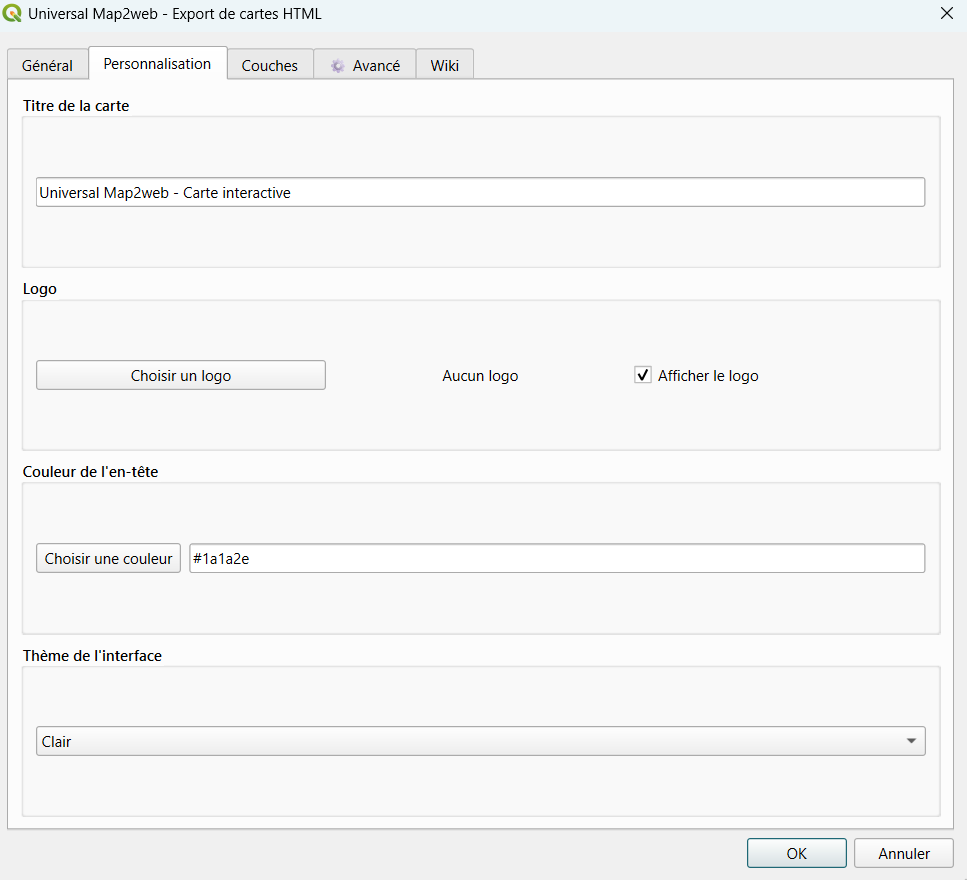
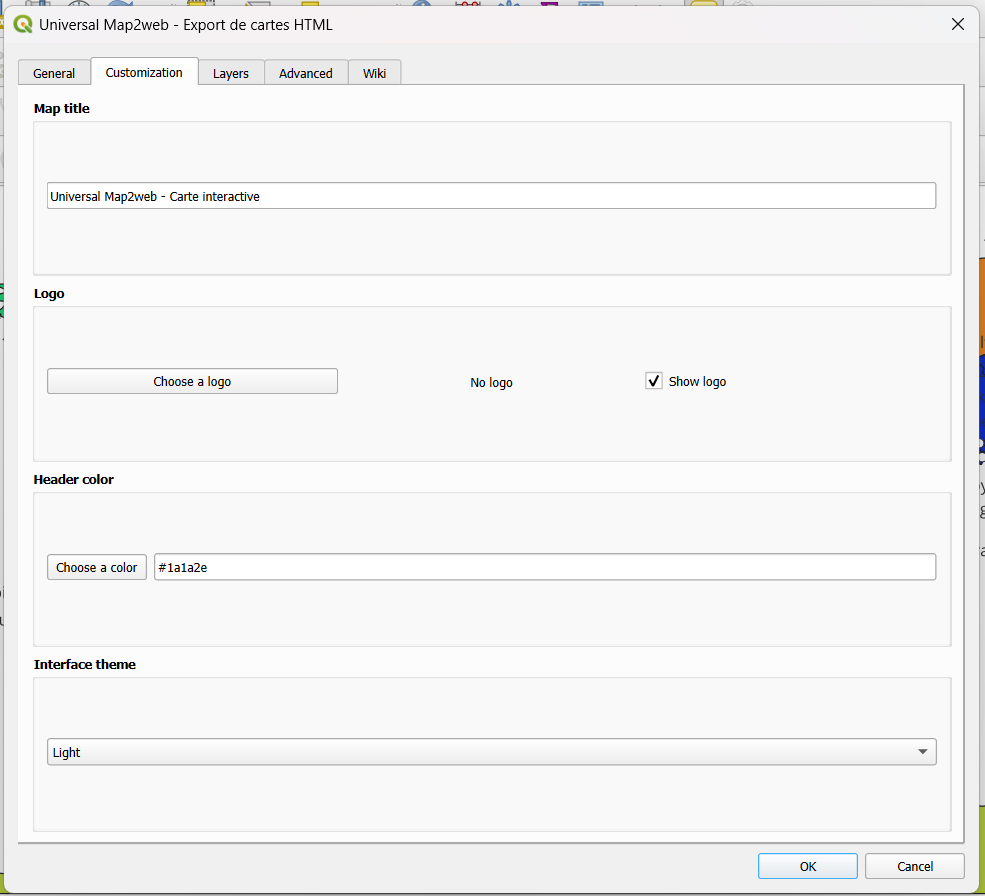
Version 1.1.1 : Corrections de sécurité pour publication QGIS

diff --git a/styles.py b/styles.py
@@ -4,7 +4,11 @@ styles.py — Extraction des styles QGIS (couleur, épaisseur, opacité...) et
 conversion vers un format directement exploitable par Leaflet côté web.
 """
 
+import logging
+
 from qgis.core import QgsWkbTypes
+
+logger = logging.getLogger(__name__)
 
 MM_TO_PX = 3.78  # approximation mm -> px pour les épaisseurs/tailles QGIS
 
@@ -31,11 +35,11 @@ def extraire_style_symbole(symbol, geom_type):
     try:
         op = symbol.opacity()
         style["opacity"] = round(op, 2)
-    except Exception:
-        pass
+    except Exception as exc:
+        logger.debug("Impossible de lire l'opacité du symbole : %s", exc)
 
     # ── POLYGONE ──
-    if geom_type == QgsWkbTypes.PolygonGeometry:
+    if geom_type == QgsWkbTypes.GeometryType.PolygonGeometry:
         if hasattr(sl, "fillColor") and sl.fillColor().isValid():
             c = sl.fillColor()
             style["fillColor"] = c.name()
@@ -50,26 +54,26 @@ def extraire_style_symbole(symbol, geom_type):
         if hasattr(sl, "strokeWidth"):
             try:
                 style["weight"] = max(sl.strokeWidth() * MM_TO_PX, 0.5)
-            except Exception:
-                pass
+            except Exception as exc:
+                logger.debug("Impossible de lire l'épaisseur du contour (polygone) : %s", exc)
 
     # ── LIGNE ──
-    elif geom_type == QgsWkbTypes.LineGeometry:
+    elif geom_type == QgsWkbTypes.GeometryType.LineGeometry:
         couleur_ligne = None
         if hasattr(sl, "color") and sl.color().isValid():
             couleur_ligne = sl.color()
         if not couleur_ligne or not couleur_ligne.isValid():
             try:
                 couleur_ligne = symbol.color()
-            except Exception:
-                pass
+            except Exception as exc:
+                logger.debug("Impossible de lire la couleur de secours de la ligne : %s", exc)
         if couleur_ligne and couleur_ligne.isValid():
             style["color"] = couleur_ligne.name()
         if hasattr(sl, "width"):
             try:
                 style["weight"] = max(sl.width() * MM_TO_PX, 1.0)
-            except Exception:
-                pass
+            except Exception as exc:
+                logger.debug("Impossible de lire la largeur de la ligne : %s", exc)
         style["fillOpacity"] = 0.0
 
     # ── POINT ──
@@ -82,8 +86,8 @@ def extraire_style_symbole(symbol, geom_type):
             style["color"] = sl.strokeColor().name()
         try:
             style["radius"] = max(sl.size() * MM_TO_PX / 2.0, 3)
-        except Exception:
-            pass
+        except Exception as exc:
+            logger.debug("Impossible de lire la taille du point : %s", exc)
 
     return style
 
@@ -122,8 +126,8 @@ def construire_carte_styles_renderer(renderer, geom_type):
             if rules and rules[0].symbol():
                 style_defaut = extraire_style_symbole(rules[0].symbol(), geom_type)
 
-    except Exception:
-        pass
+    except Exception as exc:
+        logger.debug("Impossible de construire la carte des styles depuis le renderer : %s", exc)
 
     if not style_defaut:
         style_defaut = dict(STYLE_PAR_DEFAUT)
@@ -159,6 +163,6 @@ def lookup_style(carte_styles, style_defaut, renderer, feature):
         elif "default" in carte_styles:
             return carte_styles["default"]
 
-    except Exception:
-        pass
+    except Exception as exc:
+        logger.debug("Impossible de retrouver le style pour l'entité, style par défaut utilisé : %s", exc)
     return style_defaut

diff --git a/geojson.py b/geojson.py
@@ -19,15 +19,17 @@ def layer_to_geojson(layer, popup_fields=None):
     """Convertit une couche vecteur QGIS en FeatureCollection GeoJSON (WGS84)."""
     features = []
     crs_dest = QgsCoordinateReferenceSystem("EPSG:4326")
-    transform = QgsCoordinateTransform(layer.crs(), crs_dest, QgsProject.instance())
+    transform = QgsCoordinateTransform(
+        layer.crs(), crs_dest, QgsProject.instance())
 
     renderer = layer.renderer()
     geom_type = layer.geometryType()
     attribut_classification = (
-        renderer.classAttribute() if hasattr(renderer, "classAttribute") else None
-    )
+        renderer.classAttribute() if hasattr(
+            renderer, "classAttribute") else None)
 
-    carte_styles, style_defaut = construire_carte_styles_renderer(renderer, geom_type)
+    carte_styles, style_defaut = construire_carte_styles_renderer(
+        renderer, geom_type)
 
     for feature in layer.getFeatures():
         geom = feature.geometry()
@@ -37,8 +39,8 @@ def layer_to_geojson(layer, popup_fields=None):
 
             props = {}
             champs_a_exporter = (
-                popup_fields if popup_fields else [f.name() for f in layer.fields()]
-            )
+                popup_fields if popup_fields else [
+                    f.name() for f in layer.fields()])
             for field_name in champs_a_exporter:
                 if layer.fields().indexOf(field_name) != -1:
                     val = feature[field_name]

diff --git a/exporter.py b/exporter.py
@@ -42,7 +42,7 @@ class Exporter:
             if item.checkState() == Qt.CheckState.Checked:
                 layer_id = item.data(Qt.ItemDataRole.UserRole)
                 layer = QgsProject.instance().mapLayer(layer_id)
-                if layer and layer.type() == QgsMapLayer.VectorLayer:
+                if layer and layer.type() == QgsMapLayer.LayerType.VectorLayer:
                     couches_a_exporter.append(layer)
 
         if not couches_a_exporter:
@@ -114,9 +114,9 @@ class Exporter:
                     "geom_type": get_geometry_type(layer),
                     "popup_fields": popup_fields,
                     "legend_style": legend_icons,
-                    "is_polygon": (layer.geometryType() == QgsWkbTypes.PolygonGeometry),
-                    "is_line": (layer.geometryType() == QgsWkbTypes.LineGeometry),
-                    "is_point": (layer.geometryType() == QgsWkbTypes.PointGeometry),
+                    "is_polygon": (layer.geometryType() == QgsWkbTypes.GeometryType.PolygonGeometry),
+                    "is_line": (layer.geometryType() == QgsWkbTypes.GeometryType.LineGeometry),
+                    "is_point": (layer.geometryType() == QgsWkbTypes.GeometryType.PointGeometry),
                     "etiquette": etiquette,
                     "attr_classif": attr_classif,
                 }
@@ -134,7 +134,7 @@ class Exporter:
             self.iface.messageBar().pushMessage(
                 self.tr("Success"),
                 message,
-                level=Qgis.Success,
+                level=Qgis.MessageLevel.Success,
                 duration=5,
             )
 

diff --git a/labels.py b/labels.py
@@ -4,6 +4,10 @@ labels.py — Extraction de la configuration d'étiquetage (labeling) QGIS d'une
 pour reproduire l'affichage des étiquettes côté Leaflet (tooltips permanents).
 """
 
+import logging
+
+logger = logging.getLogger(__name__)
+
 
 def extraire_etiquettes(layer):
     """
@@ -46,8 +50,8 @@ def extraire_etiquettes(layer):
             taille = text_format.size()
             if taille <= 0:
                 taille = 10
-        except Exception:
-            pass
+        except Exception as exc:
+            logger.debug("Impossible de lire le format du texte de l'étiquette : %s", exc)
 
         return {
             "champ": champ_label,

diff --git a/legend.py b/legend.py
@@ -27,7 +27,7 @@ def extraire_icones_symbologie(layer, nom_fichier_couche, styles_dir):
         styles_dir: dossier de sortie où écrire les images (créé si nécessaire).
     """
     icones_exportees = []
-    if layer.geometryType() == QgsWkbTypes.PolygonGeometry:
+    if layer.geometryType() == QgsWkbTypes.GeometryType.PolygonGeometry:
         return icones_exportees
 
     renderer = layer.renderer()

diff --git a/universal_map2web_dialog.py b/universal_map2web_dialog.py
@@ -240,7 +240,7 @@ class UniversalMap2webDialog(QDialog, FORM_CLASS):
 
         layers = QgsProject.instance().mapLayers().values()
         for layer in layers:
-            if layer.type() == QgsMapLayer.VectorLayer:
+            if layer.type() == QgsMapLayer.LayerType.VectorLayer:
                 item_export = QListWidgetItem(layer.name())
                 item_export.setCheckState(Qt.CheckState.Checked)
                 item_export.setData(Qt.ItemDataRole.UserRole, layer.id())

diff --git a/utils.py b/utils.py
@@ -48,6 +48,6 @@ def clean_filename(name):
 
 def get_geometry_type(layer):
     """Retourne le type de géométrie lisible d'une couche QGIS (ou 'Inconnu')."""
-    if layer.type() != QgsMapLayer.VectorLayer:
+    if layer.type() != QgsMapLayer.LayerType.VectorLayer:
         return "Inconnu"
     return QgsWkbTypes.geometryType(layer.wkbType())

diff --git a/README.md b/README.md
@@ -6,7 +6,7 @@
 [![Version](https://img.shields.io/badge/version-1.0.0-blue)](https://github.com/geomatic-web/universal_map2web)
 [![License](https://img.shields.io/badge/license-GPLv2-orange)](https://github.com/geomatic-web/universal_map2web)
 
-## English
+## En English
 
 ## About
 
@@ -41,7 +41,7 @@ https://youtu.be/V67q3jCYKow
 
 ## Exported Web Interface
 
-![alt text](webportail.png)
+![alt text](image-2.png)
 
 ## Installation
 
@@ -125,7 +125,7 @@ https://youtu.be/V67q3jCYKow
 
 ## Interface web exportée
 
-![alt text](webportail.png)
+![alt text](image-2.png)
 
 ## Installation
 